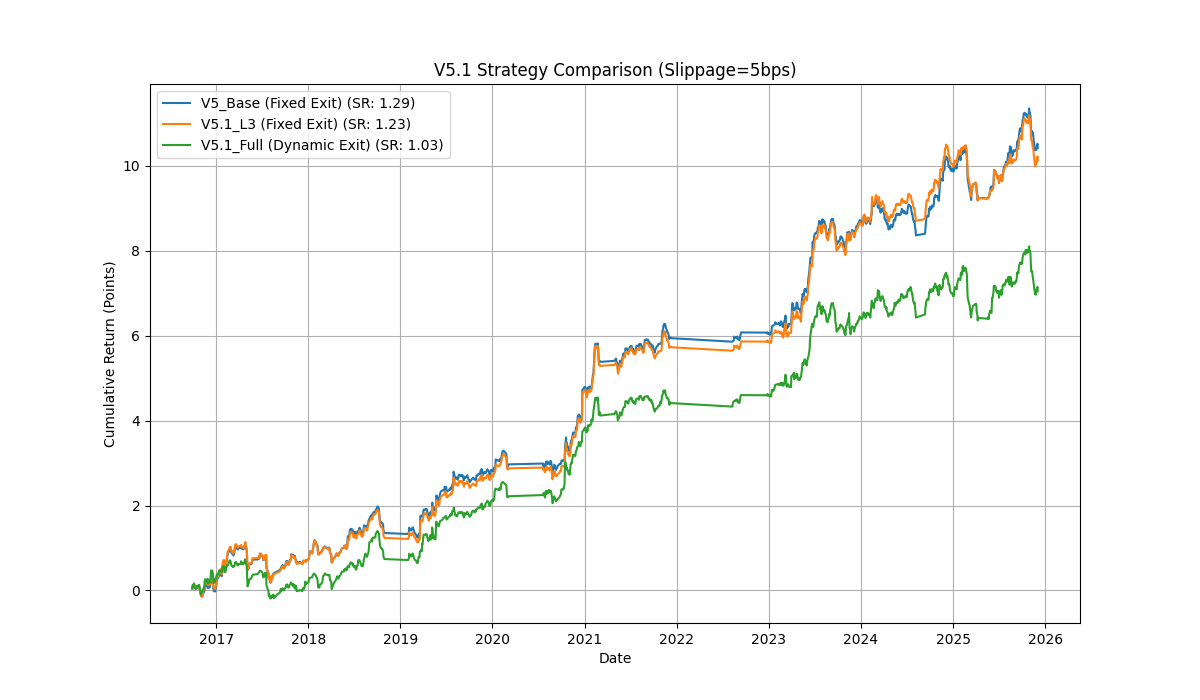
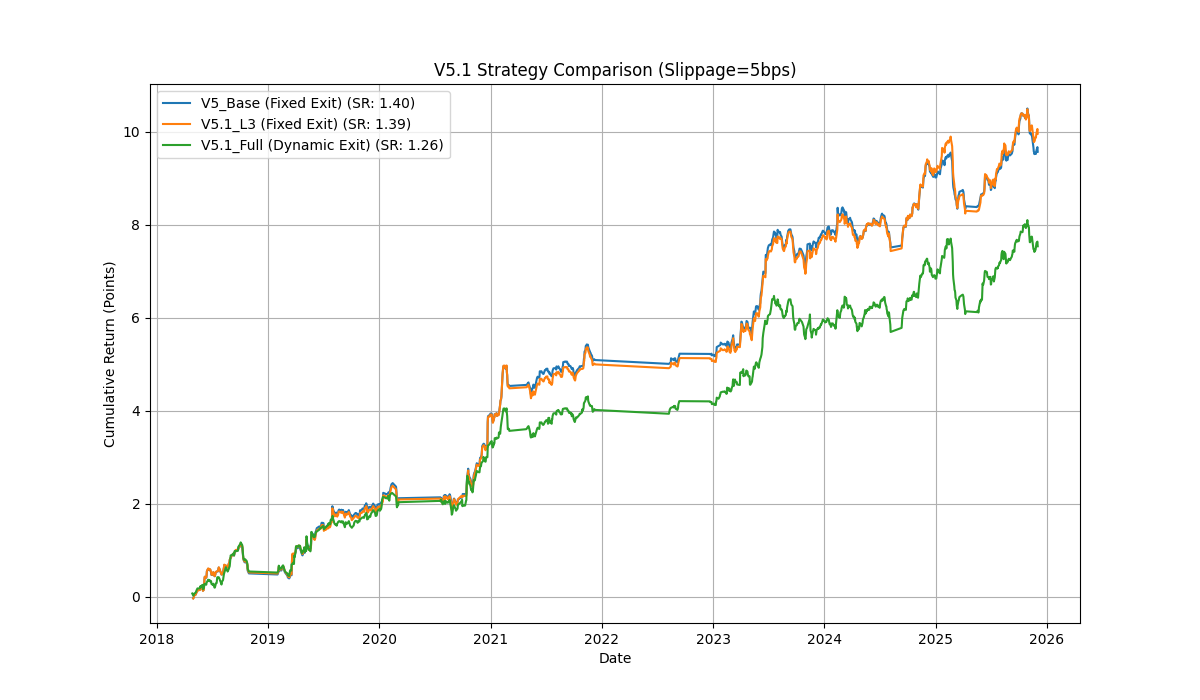
fix: V5.1 backtest with out of sample

diff --git a/V5.1/ml_pipeline/04_train_meta_labeling_l3.py b/V5.1/ml_pipeline/04_train_meta_labeling_l3.py
@@ -1,3 +1,5 @@
+# V5.1/ml_pipeline/04_train_meta_labeling_l3.py (OOS Backtest Version)
+
 import pandas as pd
 import numpy as np
 import os
@@ -66,58 +68,35 @@ def prepare_ranking_data(stock_df, market_df, regime_df):
 
 def train_l3_ranker(df):
     """
-    Trains LGBMRanker using Walk-Forward Validation.
+    Trains LGBMRanker using Walk-Forward Validation and collects Out-of-Sample predictions.
     """
-    print("\n--- Training L3 Ranker (LambdaRank) ---")
+    print("\n--- Training L3 Ranker (LambdaRank) with Walk-Forward OOS Prediction ---")
     
-    # --- 1. Feature Selection (V5.1 Orthogonality) ---
+    # --- 1. Feature Selection ---
     feature_cols = [
-        # > Sector / Orthogonal (The Alpha Source)
-        'Sector_RSI_14', 'RSI_Divergence', 'Rel_Strength_Daily',
-        
-        # > Microstructure
-        'Down_Vol_Prop', 'Rel_Vol',
-        
-        # > Volatility / Risk
-        'ATR_Norm',
-        
-        # > L1 Regime Context
-        'HMM_State', 'Anomaly_Score',
-        
-        # > Macro Context
-        'IWO_Vol_21d', 'SPY_IWO_Div_21d', 'VIX_Change_1d'
+        'Sector_RSI_14', 'RSI_Divergence', 'Rel_Strength_Daily', # Orthogonal
+        'Down_Vol_Prop', 'Rel_Vol', # Microstructure
+        'ATR_Norm', # Volatility
+        'HMM_State', 'Anomaly_Score', # Regime
+        'IWO_Vol_21d', 'SPY_IWO_Div_21d', 'VIX_Change_1d' # Macro
     ]
     
-    # Ensure columns exist
     valid_features = [c for c in feature_cols if c in df.columns]
     print(f"  - Features used ({len(valid_features)}): {valid_features}")
     
     X = df[valid_features].copy()
     X = X.fillna(0)
     
-    # --- [CRITICAL FIX] Discretize Target for LambdaRank ---
-    # LGBMRanker requires INT labels (0, 1, 2...). 
-    # We bin the returns by day into relevance grades.
-    print("  - Discretizing returns into Relevance Grades (0-3)...")
-    
+    # Discretize Target for LambdaRank
     def get_daily_grades(group):
-        # If too few samples, fallback to simple binary
         if len(group) < 4:
             return (group > 0).astype(int)
-        
-        # Rank within the day to ensure distribution is uniform
-        # Use qcut on ranks to handle duplicate return values safely
         try:
-            # Grades: 0 (Bottom 50%), 1 (Next 30%), 2 (Next 15%), 3 (Top 5%)
             return pd.qcut(group.rank(method='first'), q=[0, 0.5, 0.8, 0.95, 1.0], labels=[0, 1, 2, 3]).astype(int)
         except Exception:
-            # Fallback
             return (group > 0).astype(int)
 
-    # Apply transformation group by timestamp
     y_grades = df['Target_Return'].groupby(level='timestamp', group_keys=False).apply(get_daily_grades)
-    
-    # Use grades as the target for training
     y = y_grades
     
     # --- 2. Create Groups for Ranking ---
@@ -129,7 +108,7 @@ def train_l3_ranker(df):
     
     print(f"  - Training over {len(unique_dates)} unique days.")
     
-    # --- 3. Walk-Forward Validation ---
+    # --- 3. Walk-Forward Validation & OOS Collection ---
     n_splits = 5
     lgbm_params = {
         'objective': 'lambdarank',
@@ -139,14 +118,16 @@ def train_l3_ranker(df):
         'n_estimators': 150,
         'learning_rate': 0.05,
         'num_leaves': 31,
-        'label_gain': [0, 1, 3, 7], # Define gain for grades 0, 1, 2, 3
+        'label_gain': [0, 1, 3, 7],
         'random_state': 42,
         'verbose': -1
     }
     
-    model = lgb.LGBMRanker(**lgbm_params)
     tscv = TimeSeriesSplit(n_splits=n_splits)
     metrics = []
+    
+    # [Modify] Initialize OOS Score Container (Default NaN)
+    oos_scores = pd.Series(data=np.nan, index=X.index, name='L3_Rank_Score')
     
     for fold, (train_date_idx, test_date_idx) in enumerate(tscv.split(unique_dates)):
         train_dates = unique_dates[train_date_idx]
@@ -159,11 +140,12 @@ def train_l3_ranker(df):
         X_train, y_train = X[train_mask], y[train_mask]
         X_test, y_test = X[test_mask], y[test_mask]
         
-        # Prepare Groups (count of rows per day)
+        # Prepare Groups
         q_train = X_train.groupby(level='timestamp', sort=False).size().values
         q_test = X_test.groupby(level='timestamp', sort=False).size().values
         
-        # Train
+        # Train (Fit on Past)
+        model = lgb.LGBMRanker(**lgbm_params)
         model.fit(
             X_train, y_train, 
             group=q_train,
@@ -175,29 +157,41 @@ def train_l3_ranker(df):
         
         # Log metric
         val_score = model.best_score_['valid_0']['ndcg@3']
-        print(f"  Fold {fold+1}: NDCG@3 = {val_score:.4f} (Train Dates: {len(train_dates)}, Test Dates: {len(test_dates)})")
+        print(f"  Fold {fold+1}: NDCG@3 = {val_score:.4f} (Test Range: {test_dates.min().date()} to {test_dates.max().date()})")
         metrics.append(val_score)
+        
+        # [Modify] Predict on Test Set (OOS) and Store
+        # Since X is sorted and we mask by date, we can assign directly
+        preds_oos = model.predict(X_test)
+        oos_scores.loc[test_mask] = preds_oos
 
-    # --- 4. Final Retrain ---
-    print("Retraining final Ranker on all data...")
+    # --- 4. Final Retrain (For Future/Live Trading ONLY) ---
+    print("Retraining final Ranker on all data (for future inference)...")
+    final_model = lgb.LGBMRanker(**lgbm_params)
     q_all = X.groupby(level='timestamp', sort=False).size().values
-    model.fit(X, y, group=q_all)
+    final_model.fit(X, y, group=q_all)
     
     # Feature Importance
     importances = pd.DataFrame({
         'Feature': valid_features,
-        'Importance': model.feature_importances_
+        'Importance': final_model.feature_importances_
     }).sort_values(by='Importance', ascending=False)
     
     print("\n[L3 Ranker Feature Importance]")
     print(importances.head(10))
     
-    # --- 5. Generate OOS Scores ---
-    # Save scores for backtest
-    scores = model.predict(X)
-    df['L3_Rank_Score'] = scores
+    # --- 5. Return OOS DataFrame ---
+    # Assign the collected OOS scores to the dataframe
+    df['L3_Rank_Score'] = oos_scores
     
-    return model, df, np.mean(metrics)
+    # Remove rows where L3_Rank_Score is NaN (The initial training period)
+    # Because we cannot backtest on the period used for the first training
+    df_oos = df.dropna(subset=['L3_Rank_Score'])
+    
+    print(f"\n[OOS Info] Generated OOS scores for {len(df_oos)} trades.")
+    print(f"           (Initial {len(df) - len(df_oos)} trades dropped due to warm-up period)")
+    
+    return final_model, df_oos, np.mean(metrics)
 
 def main():
     SCRIPT_DIR = os.path.dirname(os.path.abspath(__file__))
@@ -208,23 +202,27 @@ def main():
     # 2. Prepare Data (Candidates & Target)
     rank_df = prepare_ranking_data(stock_f, market_f, regime_s)
     
-    # 3. Train Ranker
+    # 3. Train Ranker & Get OOS Scores
+    # Note: result_df will now only contain OOS rows
     model, result_df, avg_ndcg = train_l3_ranker(rank_df)
     
     # 4. Save Artifacts
     models_dir = os.path.join(SCRIPT_DIR, 'models')
     signals_dir = os.path.join(SCRIPT_DIR, 'signals')
     
+    os.makedirs(models_dir, exist_ok=True)
+    os.makedirs(signals_dir, exist_ok=True)
+    
     joblib.dump(model, os.path.join(models_dir, 'l3_ranker.joblib'))
     
-    # Save scores
+    # Save scores (OOS Only)
     out_cols = ['Target_Return', 'L3_Rank_Score', 'HMM_State', 'RSI_2']
     result_df[out_cols].to_csv(os.path.join(signals_dir, 'l3_rank_scores.csv'))
     
     print(f"\n[Summary] Average NDCG@3: {avg_ndcg:.4f}")
     print(f"Models saved to {models_dir}")
-    print(f"Scores saved to {signals_dir}/l3_rank_scores.csv")
-    print("Step 3: L3 Learning-to-Rank Complete.")
+    print(f"OOS Scores saved to {signals_dir}/l3_rank_scores.csv")
+    print("Step 3: L3 Learning-to-Rank (OOS Mode) Complete.")
 
 if __name__ == "__main__":
     main()
